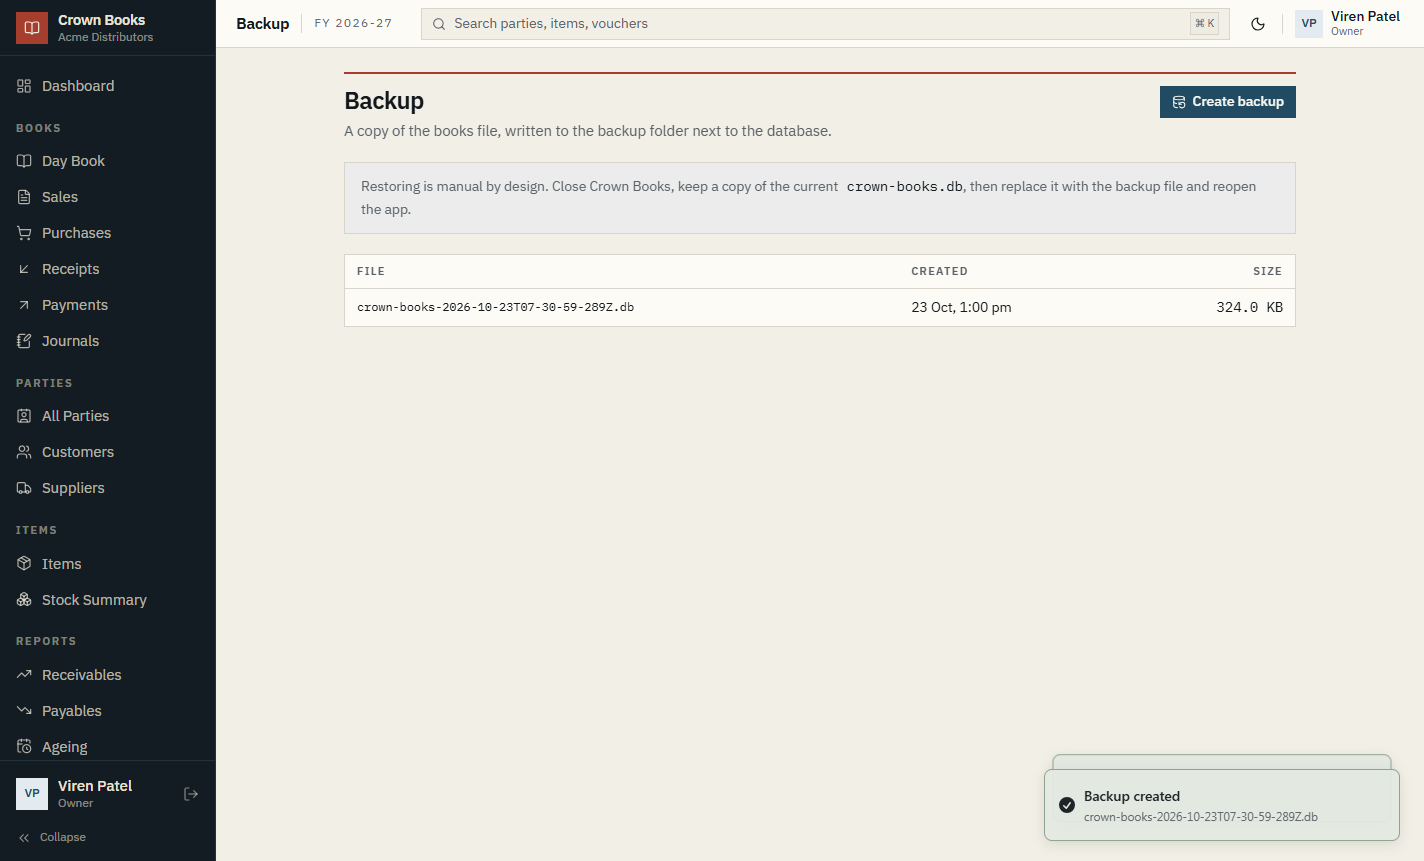
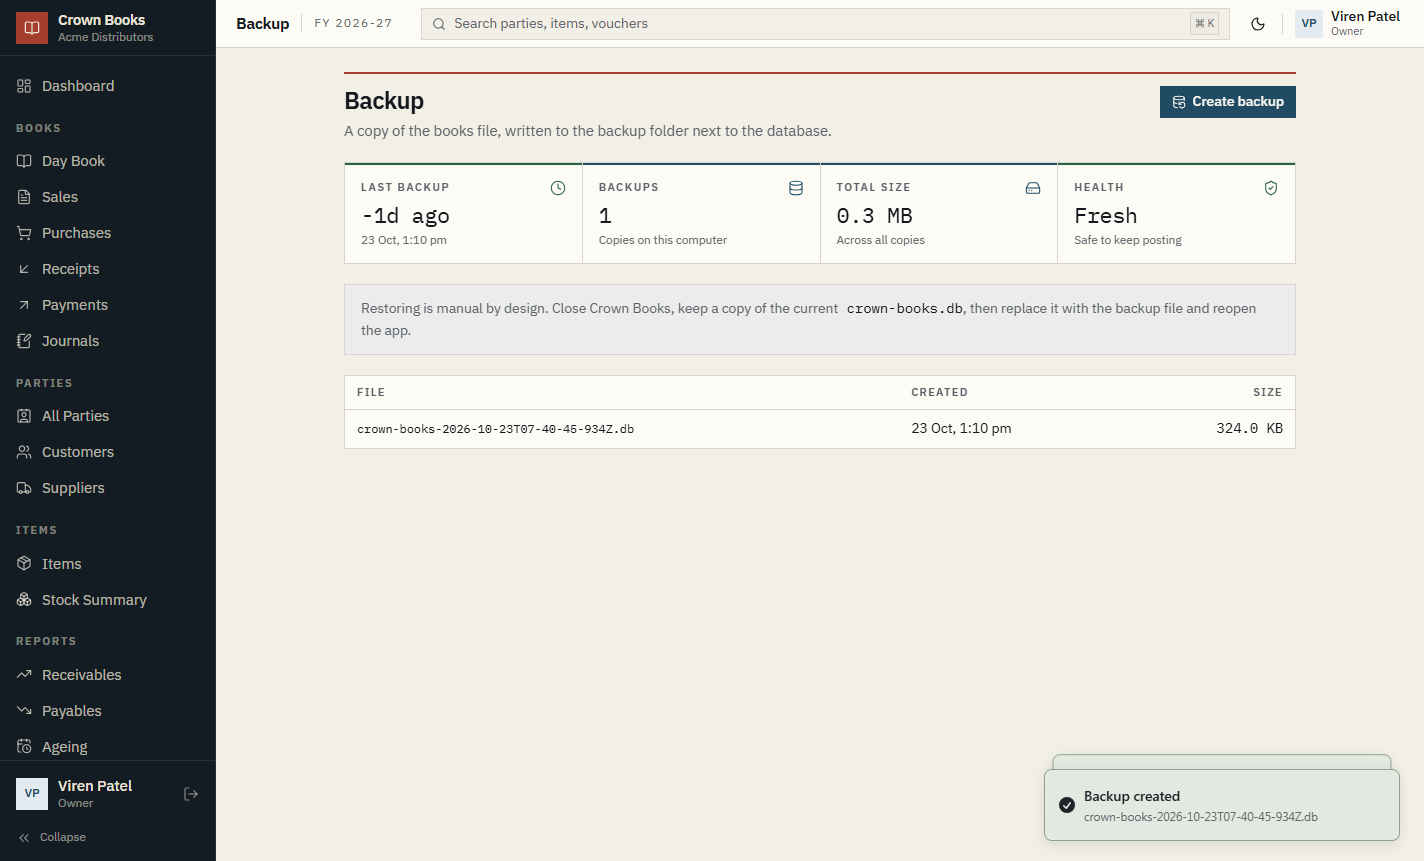
feat(ui): metrics for the chart of accounts and backups
Chart of Accounts: assets, liabilities, income and expenses KPIs and a balance-by-group chart above the grouped list.\n\nBackup: last-backup age, copy count, total size and a fresh/stale health KPI, with the timestamp of the latest copy.\n\nDocs and the Electron smoke checks cover both pages.

diff --git a/src/renderer/src/features/accounts/pages/AccountsPage.tsx b/src/renderer/src/features/accounts/pages/AccountsPage.tsx
@@ -1,7 +1,7 @@
 import { useState } from 'react'
 import { useForm } from '@tanstack/react-form'
 import { useMutation, useQuery, useQueryClient } from '@tanstack/react-query'
-import { ListTree, Plus, Search } from 'lucide-react'
+import { ListTree, Plus, Search, Landmark, TrendingUp, Wallet, ArrowDownLeft } from 'lucide-react'
 import { toast } from 'sonner'
 import { z } from 'zod'
 import { PageHeader } from '@/components/page-header'
@@ -30,6 +30,9 @@ import {
   SelectValue
 } from '@/components/ui/select'
 import { FIELD_HELP } from '@/lib/form-help'
+import { KpiCard } from '@/components/ui/kpi-card'
+import { ChartCard } from '@/components/ui/chart-card'
+import { RankedBarsChart } from '@/components/charts/list-charts'
 import { formatMinor } from '@/lib/money'
 import { errorMessage } from '../../../../../shared/contracts/errors'
 import type {
@@ -92,6 +95,64 @@ function accountFieldError(name: keyof AccountForm, value: string): string | und
   const result = accountFormSchema.shape[name].safeParse(value)
   if (result.success) return undefined
   return result.error.issues[0]?.message
+}
+
+function AccountOverview({ rows }: { rows: AccountRow[] }): React.JSX.Element {
+  const total = (type: string): number =>
+    rows
+      .filter((row) => row.type === type)
+      .reduce((sum, row) => sum + Math.abs(row.balanceMinor), 0)
+
+  const groups = new Map<string, number>()
+  for (const row of rows) {
+    groups.set(row.groupName, (groups.get(row.groupName) ?? 0) + Math.abs(row.balanceMinor))
+  }
+  const topGroups = [...groups.entries()]
+    .map(([label, valueMinor]) => ({ label, valueMinor }))
+    .filter((row) => row.valueMinor > 0)
+    .sort((a, b) => b.valueMinor - a.valueMinor)
+    .slice(0, 6)
+
+  return (
+    <>
+      <section className="grid grid-cols-2 gap-px border border-border bg-border xl:grid-cols-4">
+        <KpiCard
+          label="Assets"
+          value={formatMinor(total('ASSET'), 'INR')}
+          context="What the business owns"
+          icon={Landmark}
+          tone="primary"
+        />
+        <KpiCard
+          label="Liabilities"
+          value={formatMinor(total('LIABILITY'), 'INR')}
+          context="What the business owes"
+          icon={ArrowDownLeft}
+          tone="stamp"
+        />
+        <KpiCard
+          label="Income"
+          value={formatMinor(total('INCOME'), 'INR')}
+          context="Earned so far"
+          icon={TrendingUp}
+          tone="success"
+        />
+        <KpiCard
+          label="Expenses"
+          value={formatMinor(total('EXPENSE'), 'INR')}
+          context="Spent so far"
+          icon={Wallet}
+          tone="warning"
+        />
+      </section>
+
+      {topGroups.length > 0 ? (
+        <ChartCard title="Balance by group" subtitle="Where the ledger's value sits">
+          <RankedBarsChart rows={topGroups} ariaLabel="Account balance by group" />
+        </ChartCard>
+      ) : null}
+    </>
+  )
 }
 
 function Balance({ minor }: { minor: number }): React.JSX.Element {
@@ -167,6 +228,8 @@ export function AccountsPage(): React.JSX.Element {
           </Button>
         }
       />
+
+      <AccountOverview rows={rows} />
 
       <div className="flex flex-wrap items-center gap-2 border border-border bg-card px-3 py-2">
         <div className="relative min-w-56 flex-1">

diff --git a/src/renderer/src/features/backup/pages/BackupPage.tsx b/src/renderer/src/features/backup/pages/BackupPage.tsx
@@ -1,8 +1,10 @@
+import { useState } from 'react'
 import { useMutation, useQuery, useQueryClient } from '@tanstack/react-query'
 import { toast } from 'sonner'
-import { DatabaseBackup } from 'lucide-react'
+import { Clock, Database, DatabaseBackup, HardDrive, ShieldCheck } from 'lucide-react'
 import { PageHeader } from '@/components/page-header'
 import { EmptyState } from '@/components/empty-state'
+import { KpiCard } from '@/components/ui/kpi-card'
 import { formatDateTime } from '@/lib/format'
 
 /**
@@ -28,6 +30,14 @@ export function BackupPage(): React.JSX.Element {
       })
   })
 
+  const latest = data[0]
+  const [now] = useState(() => Date.now())
+  const ageDays = latest
+    ? Math.floor((now - new Date(latest.createdAt).getTime()) / 86_400_000)
+    : null
+  const totalBytes = data.reduce((sum, file) => sum + file.sizeBytes, 0)
+  const fresh = ageDays !== null && ageDays <= 7
+
   return (
     <div className="mx-auto flex w-full max-w-[1000px] flex-col gap-5 p-6">
       <PageHeader
@@ -44,6 +54,35 @@ export function BackupPage(): React.JSX.Element {
           </button>
         }
       />
+
+      <section className="grid grid-cols-2 gap-px border border-border bg-border xl:grid-cols-4">
+        <KpiCard
+          label="Last backup"
+          value={ageDays === null ? 'Never' : ageDays === 0 ? 'Today' : `${ageDays}d ago`}
+          context={latest ? formatDateTime(latest.createdAt) : 'No copy exists yet'}
+          icon={Clock}
+          tone={fresh ? 'success' : 'warning'}
+        />
+        <KpiCard
+          label="Backups"
+          value={String(data.length)}
+          context="Copies on this computer"
+          icon={Database}
+        />
+        <KpiCard
+          label="Total size"
+          value={`${(totalBytes / 1024 / 1024).toFixed(1)} MB`}
+          context="Across all copies"
+          icon={HardDrive}
+        />
+        <KpiCard
+          label="Health"
+          value={fresh ? 'Fresh' : data.length === 0 ? 'None' : 'Stale'}
+          context={fresh ? 'Safe to keep posting' : 'Create a copy before posting more'}
+          icon={ShieldCheck}
+          tone={fresh ? 'success' : 'stamp'}
+        />
+      </section>
 
       <div className="border border-border bg-accent-soft/50 px-4 py-3 text-[0.875rem] leading-relaxed text-muted-foreground">
         Restoring is manual by design. Close Crown Books, keep a copy of the current

diff --git a/tests/e2e/ux-refresh.spec.ts b/tests/e2e/ux-refresh.spec.ts
@@ -205,4 +205,8 @@ test('the dashboard reflects the records and shows the trends', async () => {
   await expect(page.getByText('Total debit', { exact: true })).toBeVisible()
   await expect(page.getByRole('button', { name: 'CSV' })).toBeVisible()
   await expect(page.getByRole('button', { name: 'PDF' })).toBeVisible()
+
+  await goto('#/masters/accounts')
+  await expect(page.getByText('Assets', { exact: true })).toBeVisible()
+  await expect(page.getByText('Balance by group')).toBeVisible()
 })

diff --git a/docs/10-page-overhaul.md b/docs/10-page-overhaul.md
@@ -76,6 +76,10 @@ the items page can show reorder status without a second call.
 - **Item detail** (`/items/:id`) — on hand, stock value, reorder level and
   margin KPIs, a stock-position meter, and stock movements with a running
   balance. Movements come from the new `reports:stock-movements` read model.
+- **Chart of Accounts** — assets, liabilities, income and expenses KPIs and a
+  balance-by-group chart above the grouped account list.
+- **Backup** — last-backup age, copy count, total size and a fresh/stale health
+  KPI above the backup files.
 
 Party and item names in their lists are links to these pages.
 
